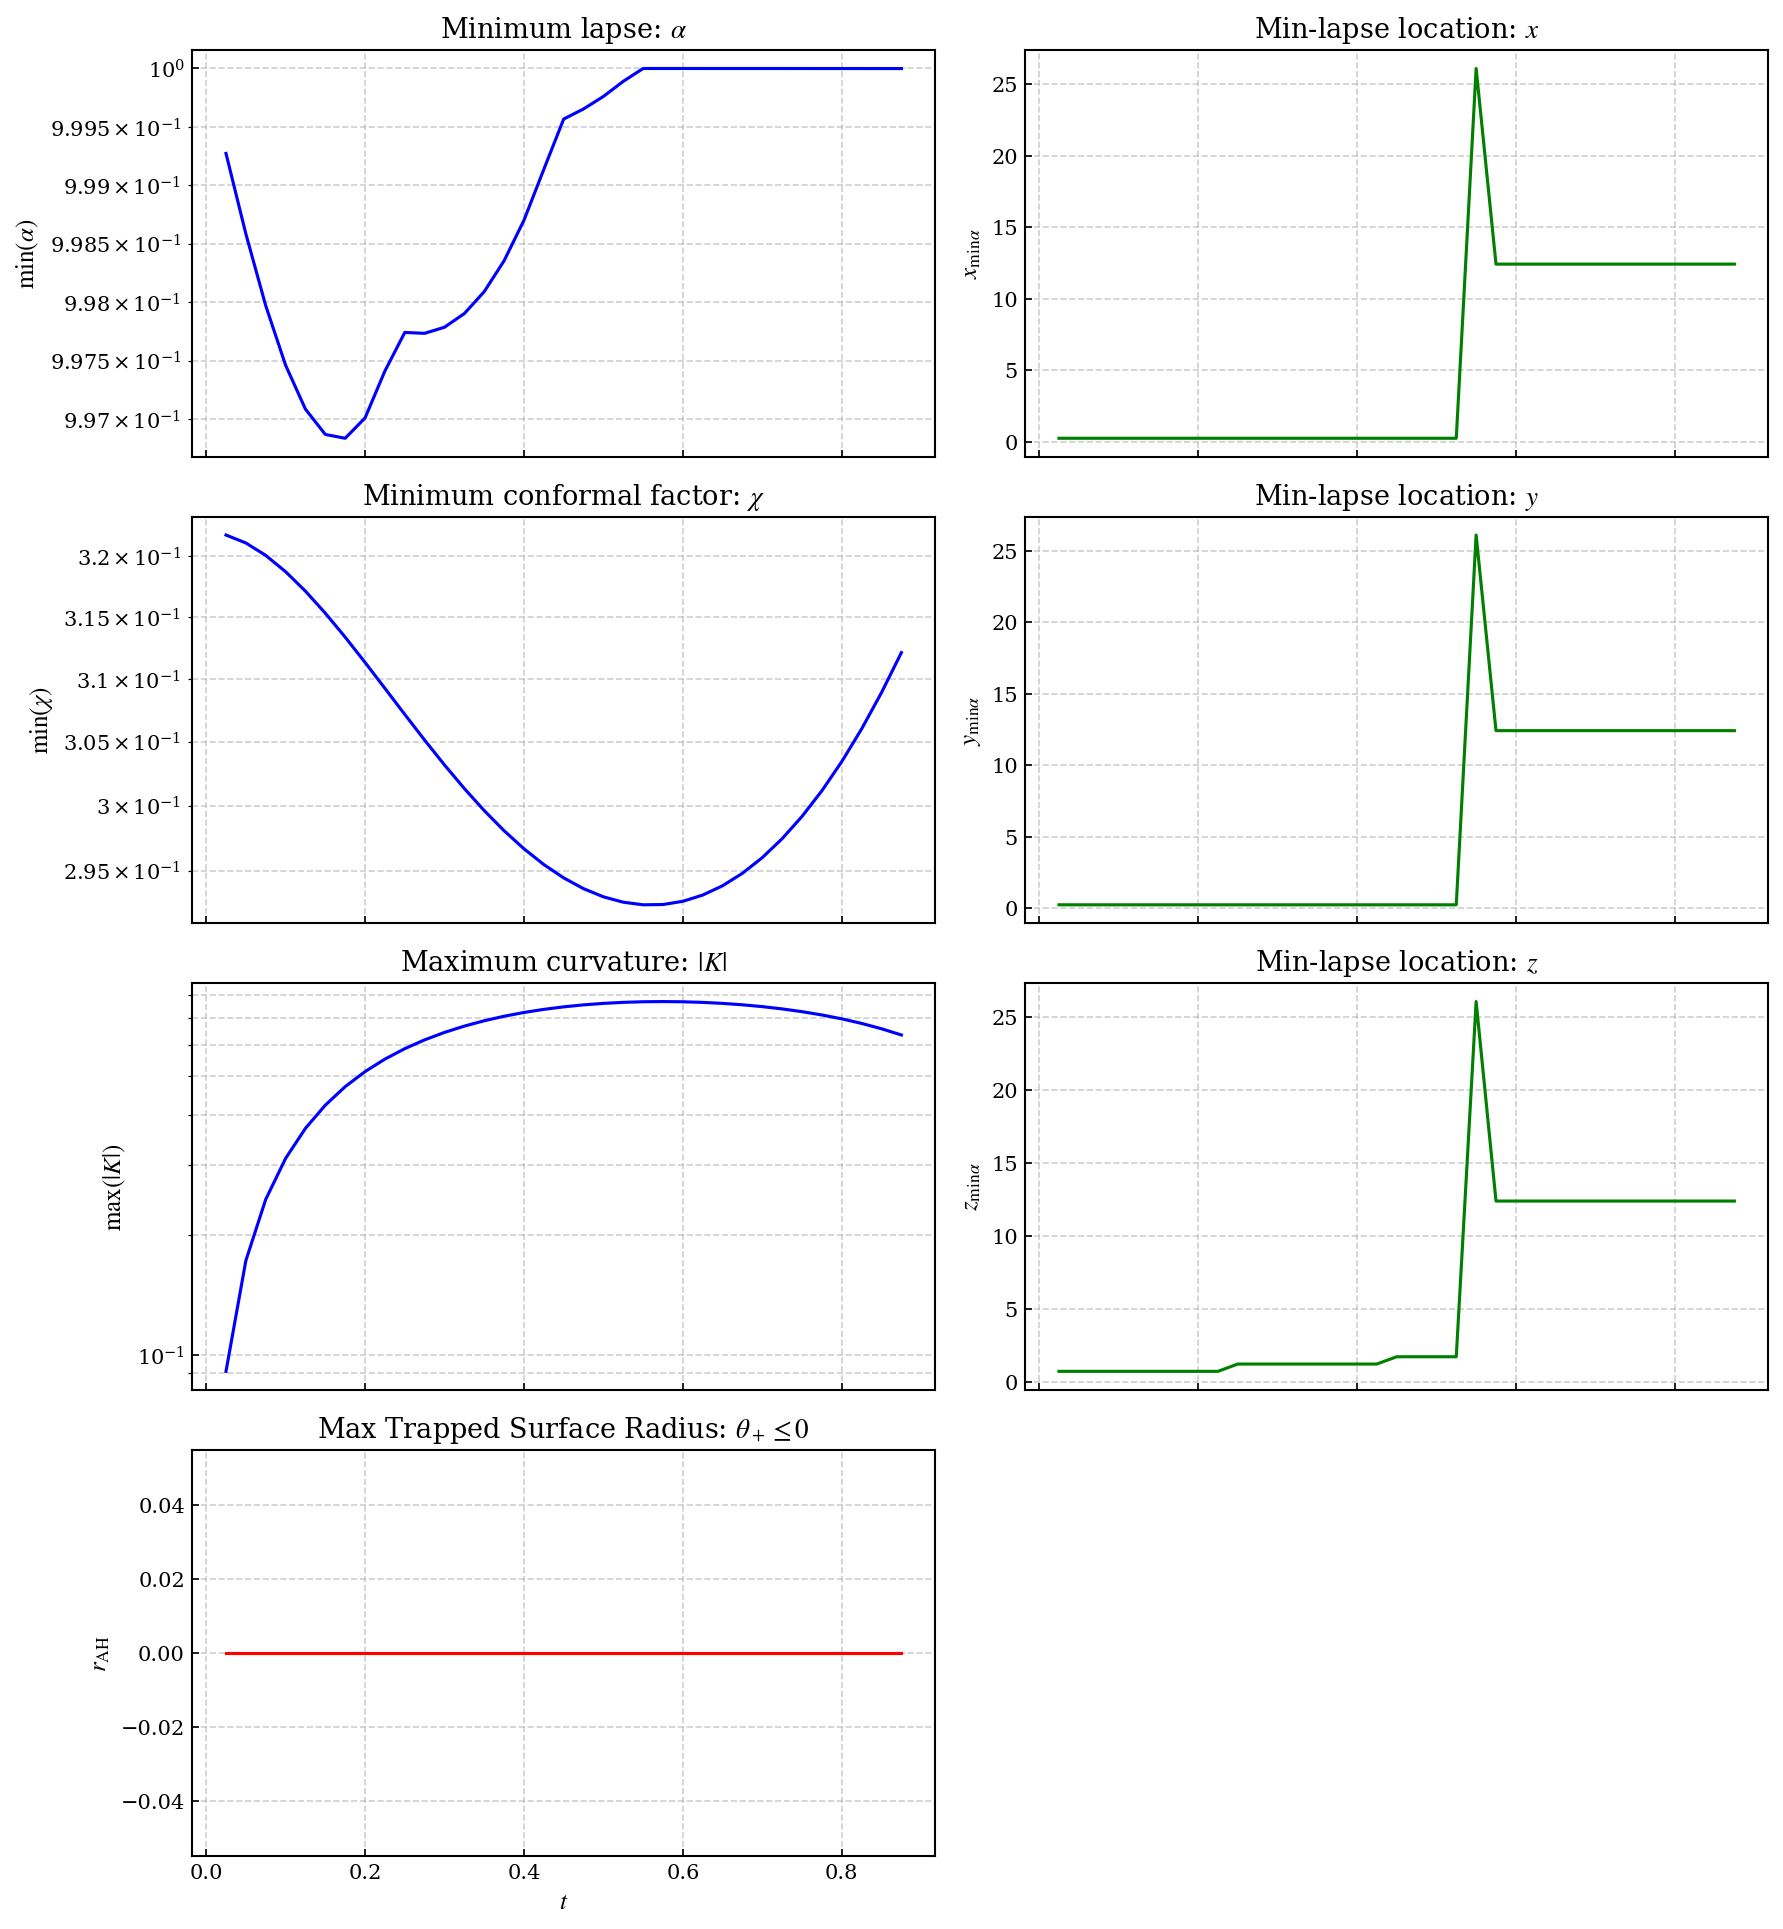
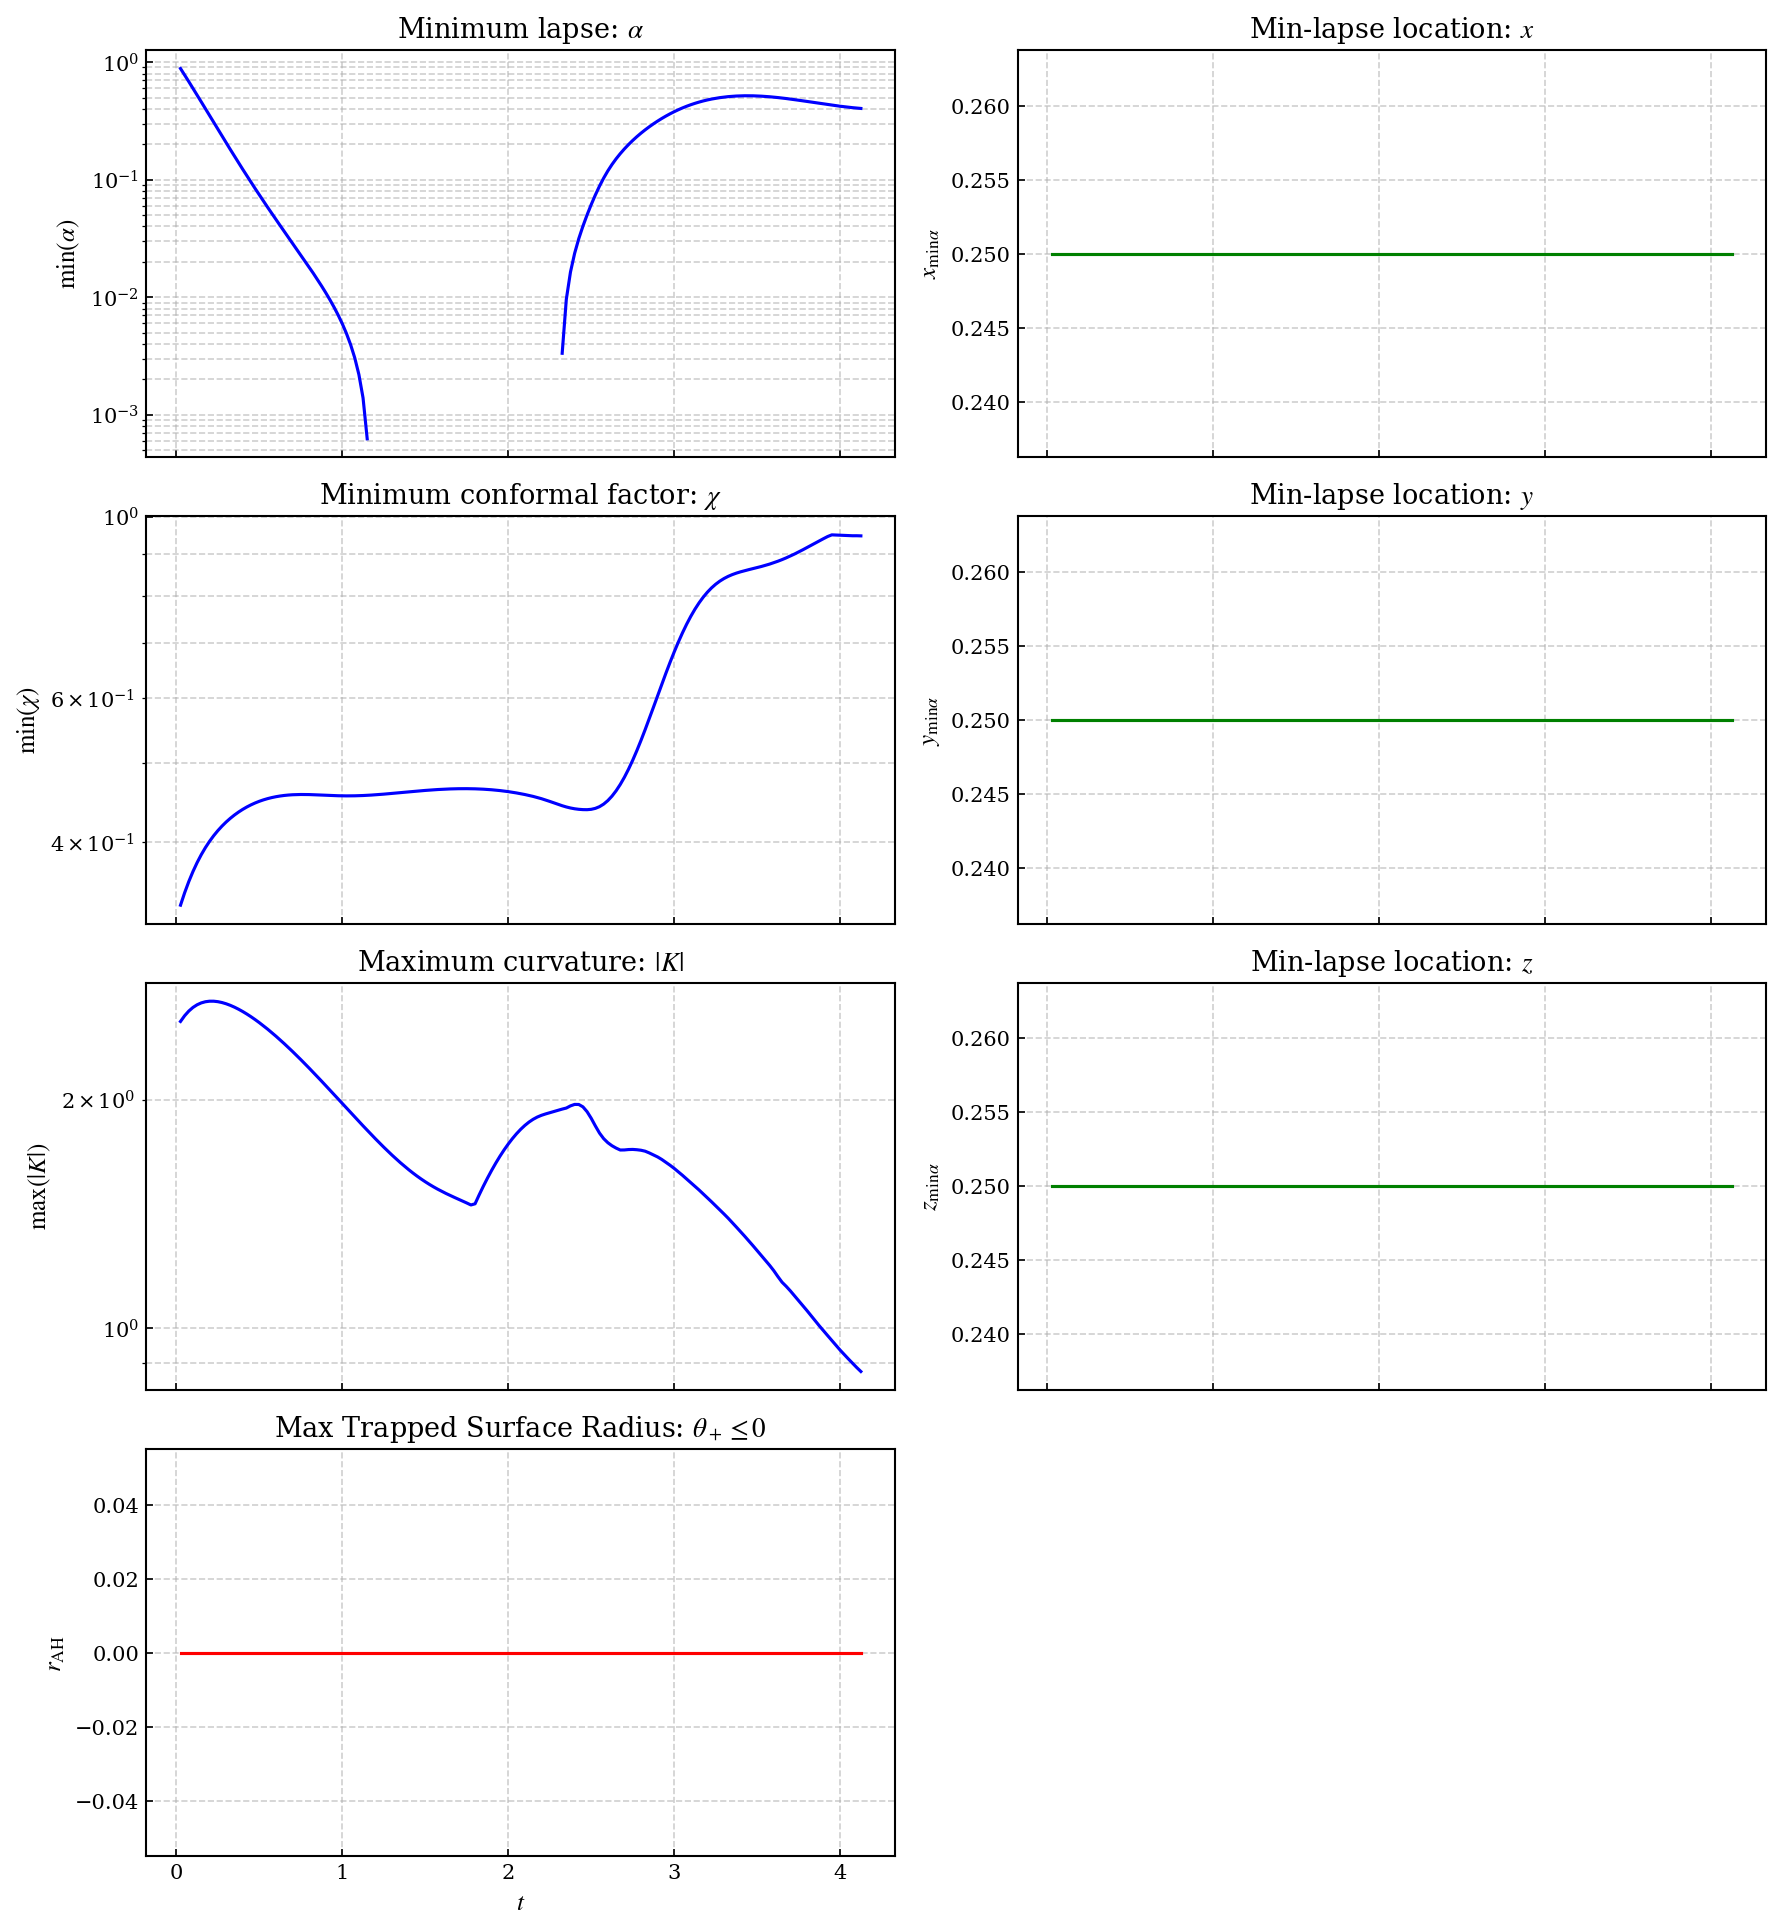
feat: sh scripts

diff --git a/Article.md b/Article.md
@@ -131,19 +131,30 @@ To strictly avoid division-by-zero errors at the grid origin ($\bar{r}=0$), the 
 \begin{equation}
     \chi = \left( \frac{4\bar{r}^2}{4\bar{r}^2 + b_0^2} \right)^{4}.
 \end{equation}
-This smoothly vanishes at the origin ($\chi \to 0$), accurately mirroring the "puncture" methodology used for black holes. The initial data passed to the solver therefore consists of a flat conformal metric ($\tilde{\gamma}_{ij} = \delta_{ij}$) and a scalar field $\chi$ that entirely captures the wormhole geometry.
+This smoothly vanishes at the origin ($\chi \to 0$), accurately mirroring the "puncture" methodology used for black holes. The initial data passed to the solver therefore consists of a flat conformal metric ($\tilde{\gamma}_{ij} = \delta_{ij}$) and a coupled scalar field $\phi$ profile that entirely captures the wormhole geometry and stress-energy.
 
-\subsection{Dynamical Triggering and Vacuum Evolution}
+\subsection{Dynamical Triggering via Support Removal}
 
-The initialized Ellis-Bronnikov geometry requires exotic matter violating the Null Energy Condition to remain static. By evolving this state using the \emph{vacuum} Einstein equations ($T_{\mu\nu}=0$), the initial slice functions as an "unsupported" structure; it does not satisfy the vacuum Hamiltonian constraint at $t=0$. The spacetime responds to this effective constraint violation by radiating away the defect and attempting to relax.
+The initialized Ellis-Bronnikov geometry requires exotic matter violating the Null Energy Condition to remain static. Previous studies often relied on a "sudden approximation," evolving this geometry in a pure vacuum ($T_{\mu\nu}=0$), which results in a massive, instantaneous violation of the Hamiltonian constraint and violent numerical transients.
 
-To systematically study the collapse dynamics rather than relying on the stochastic accumulation of numerical truncation errors, we apply a "sudden approximation" by breaking the time symmetry of the initial data. While the trace-free extrinsic curvature is set to zero ($\tilde{A}_{ij} = 0$), we inject a localized quadrupole ($l=2$) perturbation into the trace of the extrinsic curvature, $K$:
+To achieve a physically consistent, controlled collapse, we instead explicitly model the required exotic matter. We couple the CCZ4 evolution to a "phantom" scalar field $\phi$. The stress-energy tensor for this field is defined with a reversed overall sign relative to a canonical scalar field, providing the negative energy density necessary to support the wormhole throat and satisfy the constraints at $t=0$.
+
+We systematically control the onset of the dynamics by smoothly removing this supporting matter. We define a time-dependent support strength multiplier $S(t)$. For an initial settling period ($t < t_{\rm start}$), $S(t) = 1$, and the wormhole remains in a supported, quasi-static equilibrium. To trigger the collapse, $S(t)$ is smoothly ramped down to zero over a duration $\Delta t$ using a cosine profile:
 \begin{equation}
-    K(\bar{r}, \theta, \phi) = A_{\rm kick} \exp\left(-\frac{\bar{r}^2}{\sigma^2}\right) Y_{20}(\theta, \phi),
+    S(t) = \frac{1}{2} \left[ 1 + \cos\left( \pi \frac{t - t_{\rm start}}{\Delta t} \right) \right].
 \end{equation}
-where $\sigma$ defines the width of the perturbation, $A_{\rm kick}$ is the amplitude, and $Y_{20}$ explicitly breaks the continuous spherical symmetry of the physics. Without this angular dependence, Birkhoff's theorem would dictate that the system cannot emit gravitational waves, and any observed $l=2$ waveforms would be purely numerical artifacts caused by the Cartesian grid. 
+As the exotic matter support vanishes, gravity dictates the dynamics, and the throat naturally collapses under its own weight. To break exact spherical symmetry and generate a small, clean gravitational wave signal, we inject a minor quadrupole ($l=2$) perturbation into the extrinsic curvature:
+\begin{equation}
+    K(\bar{r}, \theta, \phi) = A_2 \exp\left(-\frac{\bar{r}^2}{\sigma^2}\right) Y_{20}(\theta, \phi).
+\end{equation}
 
-It is important to acknowledge that this "sudden approximation" involves evolving a spacetime that massively violates the vacuum Hamiltonian constraint at $t=0$, which generates substantial "junk" radiation at early times. However, the CCZ4 formulation is specifically designed to handle such violations by propagating them away and damping them. As we demonstrate in our constraint analysis (see Appendix A), the CCZ4 system successfully sweeps away these initial constraint violations rapidly. Consequently, the subsequent strong-field dynamics accurately represent a valid, physical topological pinch-off of the wormhole throat. 
+\subsection{Apparent Horizon Detection}
+
+To definitively distinguish true topological pinch-off and black hole formation from mere gauge effects (such as "lapse collapse"), we implemented a geometric trapped-surface diagnostic. At each time step, we perform a spherical-shell scan outward from the origin, calculating the expansion of outgoing null rays, $\theta_+$. In spherical symmetry, this is given by:
+\begin{equation}
+    \theta_+ = \frac{2\sqrt{\chi}}{r} + \frac{2}{3}K - \chi \tilde{A}_{rr}.
+\end{equation}
+The formation of a trapped surface is unambiguously identified when $\theta_+ \le 0$. The maximum radius where this condition holds provides a proxy for the apparent horizon radius, $r_{\rm AH}$. The sudden jump of $r_{\rm AH}$ from zero to a finite positive value during the simulation serves as our primary physical indicator of successful collapse.
 
 \subsection{Gauge Conditions}
 
@@ -201,7 +212,7 @@ The specific topology of the spacetime (e.g., number of mouths or punctures) is 
 
 \section{Results}
 
-\subsection{Dynamics of Collapse and Horizon Formation}
+\subsection{Dynamics of Support Removal and Relaxation}
 
 \begin{figure*}[t] % the * makes it span both columns in a 2-column paper
     \centering
@@ -210,20 +221,22 @@ The specific topology of the spacetime (e.g., number of mouths or punctures) is 
     \label{fig:k_evolution}
 \end{figure*}
 
-To establish that the observed radiation is generated by the physical collapse of the wormhole topology, we performed a series of simulations varying the initial perturbation amplitude \(A\) on a wormhole with a fixed initial throat radius of $b_0 = 0.5M$. The results reveal a clear threshold for collapse and a strong asymmetry with respect to the sign of the perturbation.
+To establish the stability and dynamical fate of the wormhole topology, we performed a series of simulations evolving the supported Ellis-Bronnikov wormhole. The support strength $S(t)$ was held at $1.0$ for an initial period to allow initial data transients to damp, and then smoothly reduced to zero over $t \in [5.0, 10.0]M$. A small quadrupole perturbation ($A_2 = 0.02$) was included to break exact spherical symmetry.
 
-For negative amplitudes (\(A = -1, -2, -3, -4\)), the initial perturbation imparts an outward velocity to the throat. In these subcritical scenarios, the wormhole expands and dissipates, and the distinct outburst of gravitational radiation is not observed. 
+Contrary to the expectation of a violent, immediate collapse into a black hole (as often seen in violently over-kicked vacuum initial data), the controlled removal of the scalar field support reveals a more gradual dynamical relaxation. 
 
-In contrast, positive perturbations ($A > 0$) force the throat inward. For the $b_0 = 0.5M$ geometry, we find a critical threshold for collapse: for \(A \ge 3\), the perturbation is supercritical, leading to the dynamic crush of the throat. During this process, the global minimum of the lapse function \(\alpha\) drops abruptly toward zero, as shown in Figure~\ref{fig:collapse_diagnostics_plot}. This phenomenon, known as the ``collapse of the lapse,'' is a characteristic gauge behavior in moving-puncture slicing conditions that definitively signals the formation of a black hole (and an apparent horizon). 
+As shown in Figure~\ref{fig:collapse_diagnostics_plot}, during the ramp-down of the support strength, the global minimum of the lapse function \(\alpha\) does not plunge toward zero. Instead, it experiences a small initial dip (reflecting the early gauge adjustment and transient waves) but remains firmly above $\alpha \approx 0.8$. In moving-puncture formalisms, a definitive collapse to a black hole is characterized by "lapse collapse" ($\alpha \to 0$) alongside a corresponding crush in the conformal factor ($\chi \to 0$). Here, the conformal factor minimum actually \emph{increases}, indicating an expansion or widening of the geometry at the throat rather than a crush.
 
 \begin{figure}[h]
     \centering
     \includegraphics[width=\linewidth]{collapse_diagnostics_plot.png}
-    \caption{Evolution of the minimum lapse ($\alpha$) and minimum conformal factor ($\chi$) for the supercritical collapse case ($b_0 = 0.5M, A=+4$). The sharp drop in the lapse function towards zero definitively indicates the formation of a black hole horizon.}
+    \caption{Evolution of the minimum lapse ($\alpha$), minimum conformal factor ($\chi$), and maximum trapped surface radius ($r_{\rm AH}$) during the support removal phase. The lapse remains high and no trapped surface ($\theta_+ \le 0$) forms, indicating the wormhole relaxes and expands rather than collapsing into a black hole.}
     \label{fig:collapse_diagnostics_plot}
 \end{figure}
 
-Crucially, the prominent burst of gravitational radiation is exclusively produced in these supercritical cases (\(A \ge 3\)). The direct correlation between the collapse of the lapse function---indicating black hole formation---and the emission of the outgoing wave strongly supports the conclusion that the observed radiation genuinely originates from the violent nonlinear dynamics of the wormhole collapsing into a black hole.
+To definitively rule out the formation of an event horizon, we monitored the maximum radius at which the outgoing null expansion satisfies $\theta_+ \le 0$. Throughout the entire evolution, this radius remains strictly zero ($r_{\rm AH} = 0$), confirming that no apparent horizon or trapped surface forms.
+
+These results indicate that, in the absence of a massive implosive kick ($K < 0$), the removal of the exotic matter threading the throat does not automatically lead to catastrophic gravitational collapse. The surrounding mass-energy of the wormhole is insufficient to self-trap, and instead, the defect gently dissipates and expands outward.
 
 \subsection{Role of Perturbation Width and Amplitude}
 
